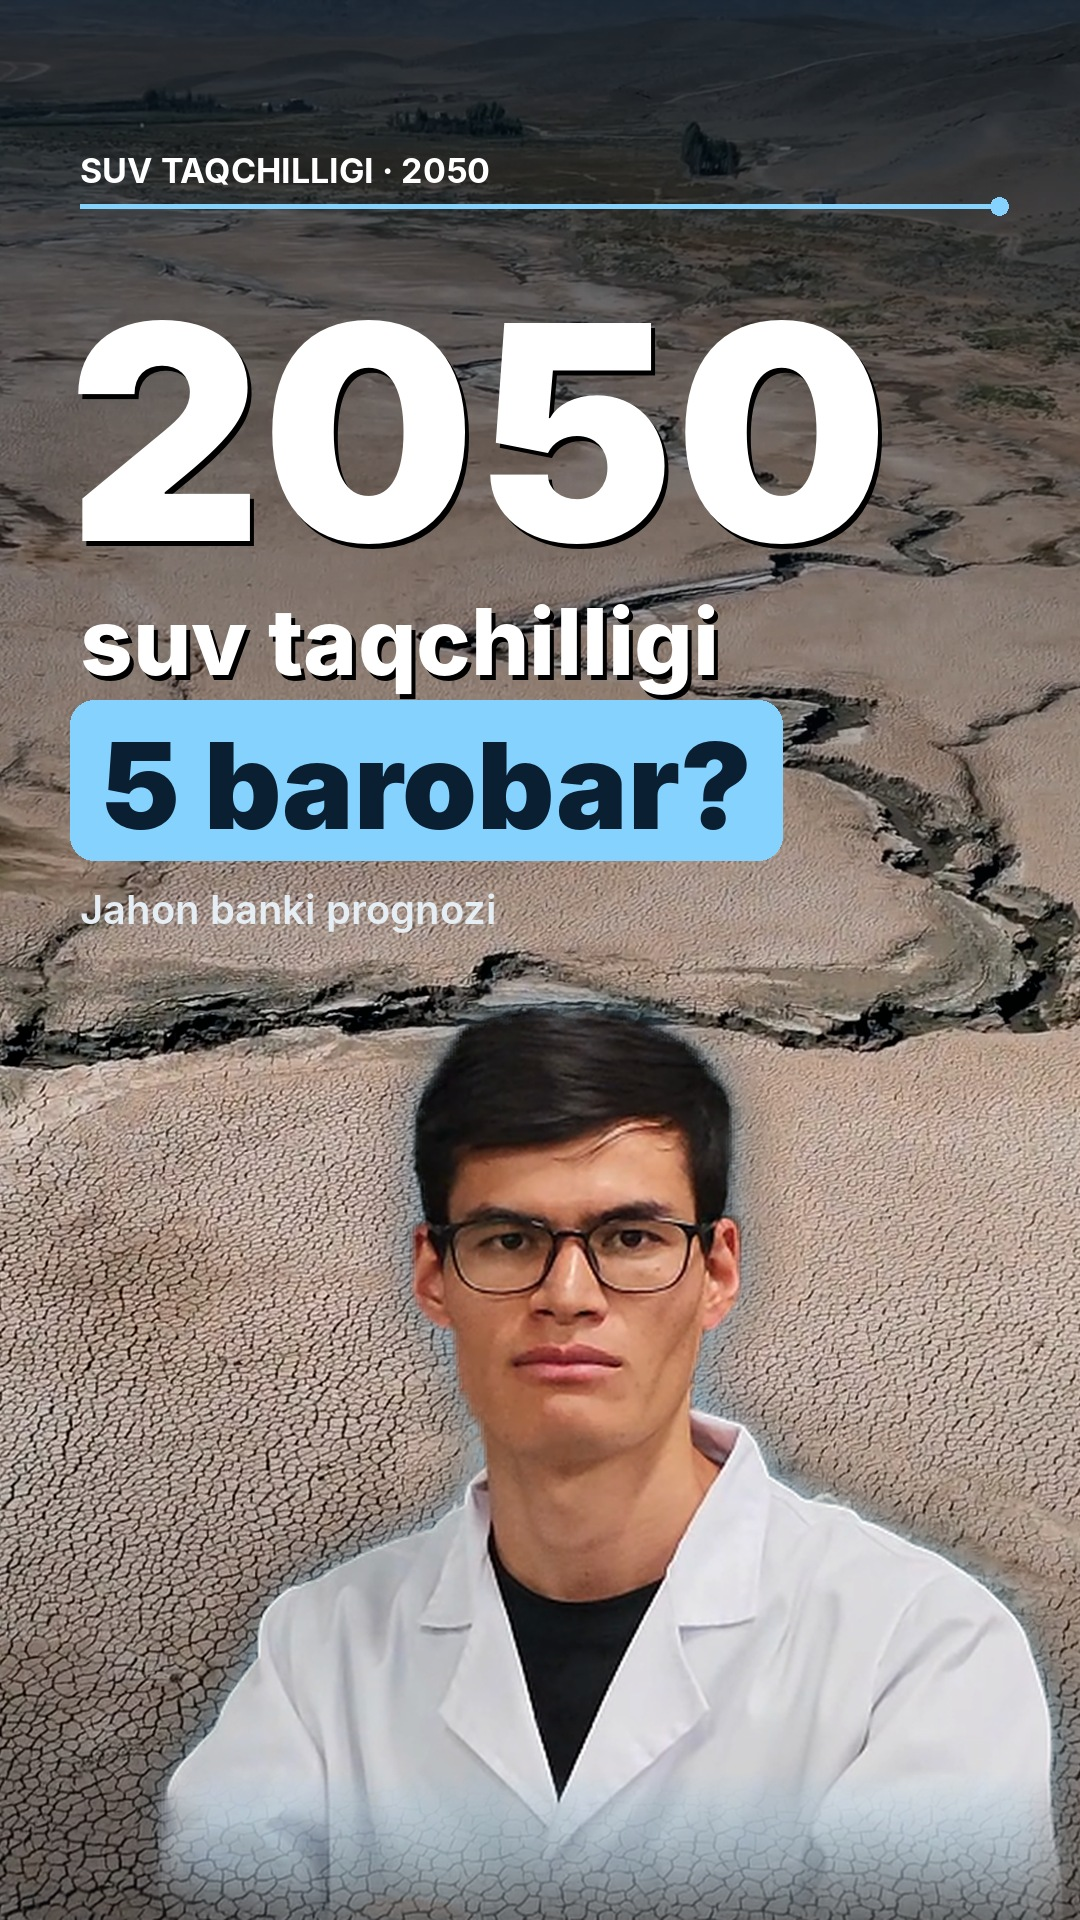
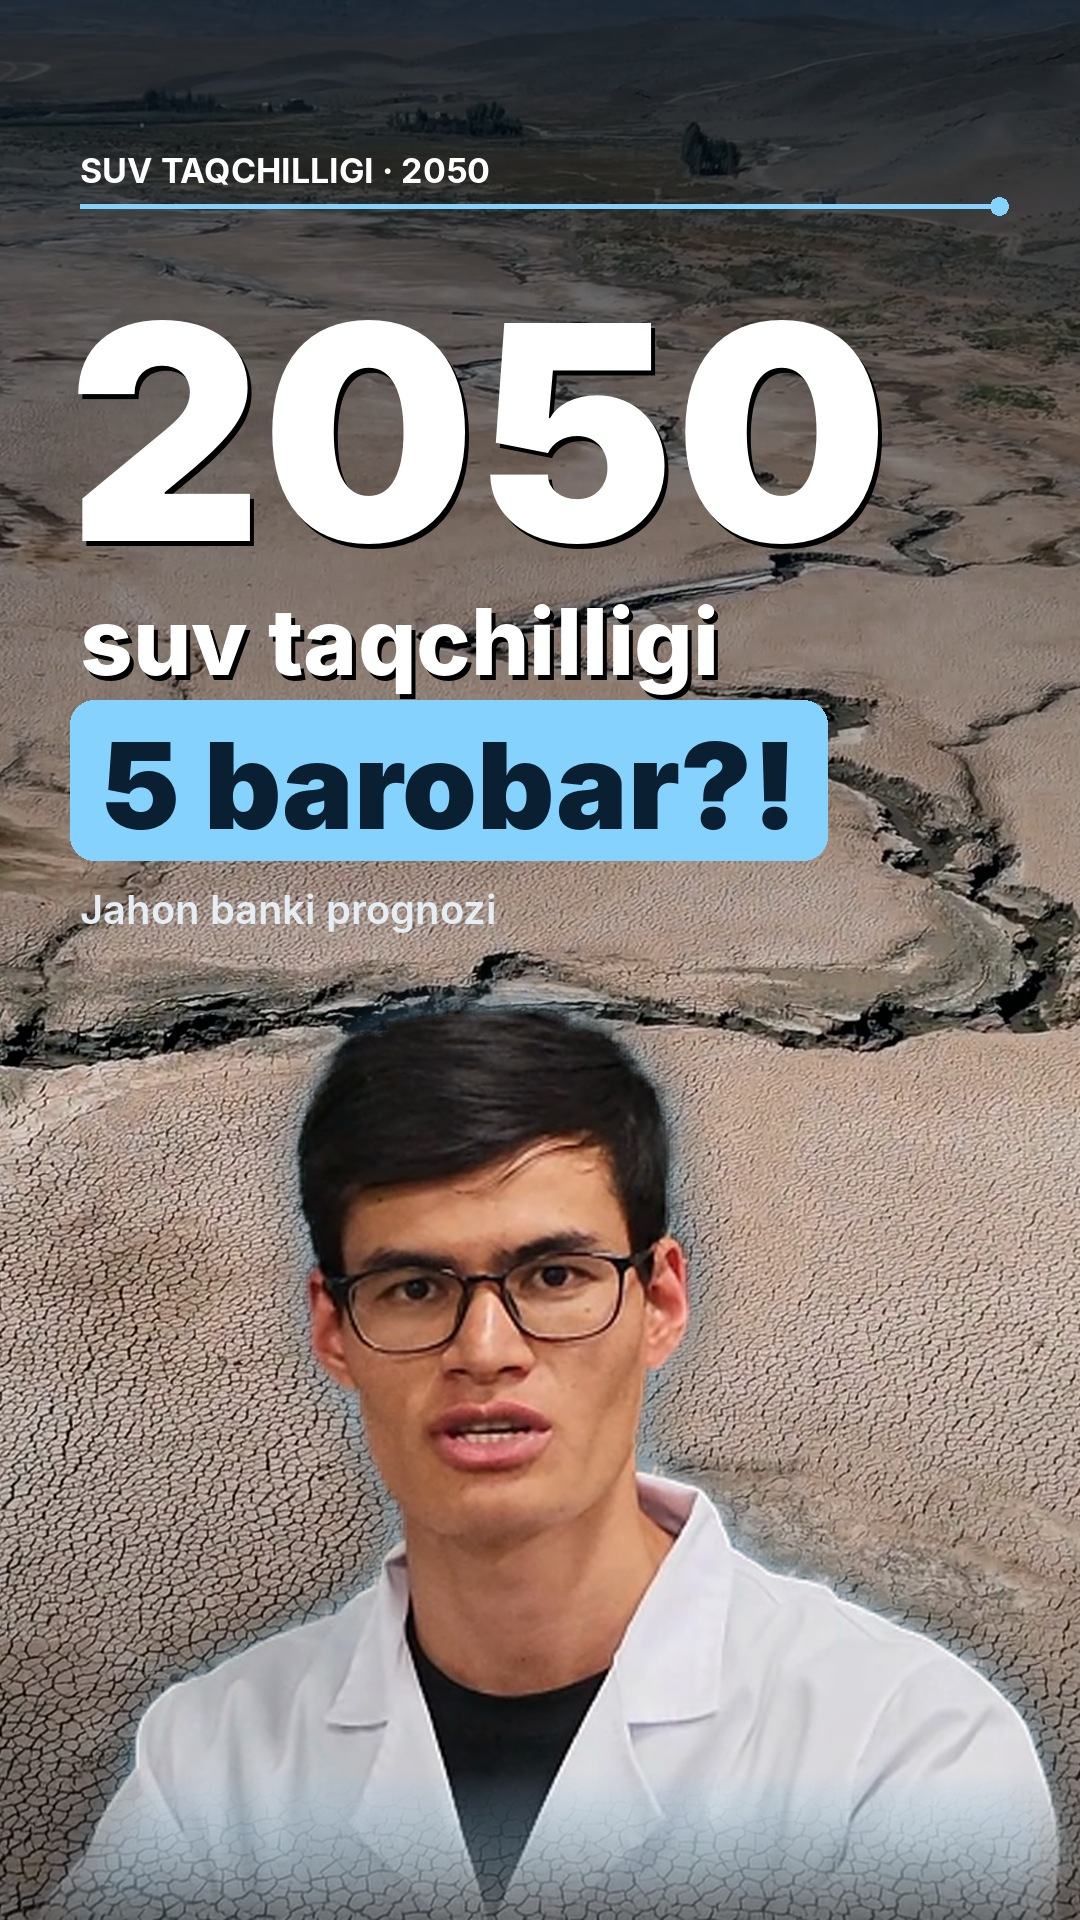
27.10 cover: shocked frame (58.2s), bigger face, '5 barobar?!'
Claude-Session: https://claude.ai/code/session_011HDZ5Uv6NChoVbnSnix7oL

Changed region(s): [[0.0306, 0.5, 0.9778, 1.0], [0.7028, 0.3438, 0.7639, 0.4688], [0.7333, 0.875, 0.825, 0.9375]]

diff --git a/reels/2026-10-27-suv-taqchilligi-2050/src/make_cover.py b/reels/2026-10-27-suv-taqchilligi-2050/src/make_cover.py
@@ -21,12 +21,12 @@ for y in range(H):
 im.alpha_composite(g)
 
 # person bust
-cut = Image.open(D + "cut.png").convert("RGBA").crop((360, 740, 1040, 1380))
-sc = 1.55; cut = cut.resize((int(cut.width * sc), int(cut.height * sc)), Image.LANCZOS)
+cut = Image.open(D + "cut.png").convert("RGBA").crop((400, 790, 1000, 1330))
+sc = 1.8; cut = cut.resize((int(cut.width * sc), int(cut.height * sc)), Image.LANCZOS)
 m = np.array(cut.getchannel("A")).astype(np.float32)
 fade = np.clip((cut.height - np.arange(cut.height)) / 160, 0, 1)[:, None]      # soft bottom edge
 cut.putalpha(Image.fromarray((m * fade).astype(np.uint8)))
-px, py = (W - cut.width) // 2 + 40, H - cut.height + 10
+px, py = (W - cut.width) // 2, H - cut.height + 10
 glow = Image.new("RGBA", (W, H)); gl = Image.new("RGBA", cut.size, SKY + (0,)); gl.putalpha(cut.getchannel("A"))
 glow.alpha_composite(gl, (px, py)); glow = glow.filter(ImageFilter.GaussianBlur(26))
 glow.putalpha(glow.getchannel("A").point(lambda v: int(v * 0.85)))
@@ -44,9 +44,9 @@ d.ellipse([990, 197, 1008, 215], fill=SKY + (255,))
 text(68, 250, "2050", fn("Black", 300), WHITE)
 text(80, 585, "suv taqchilligi", fn("ExtraBold", 92), WHITE)
 # ×5 badge
-f = fn("Black", 120); w = d.textlength("5 barobar?", font=f)
+f = fn("Black", 120); w = d.textlength("5 barobar?!", font=f)
 d.rounded_rectangle([70, 700, 70 + w + 60, 860], 24, fill=SKY + (255,))
-d.text((100, 712), "5 barobar?", font=f, fill=(11, 31, 51))
+d.text((100, 712), "5 barobar?!", font=f, fill=(11, 31, 51))
 d.text((80, 885), "Jahon banki prognozi", font=fn("SemiBold", 40), fill=(230, 238, 245, 240))
 im.convert("RGB").save(D + "cover_2050.jpg", quality=93)
 im.convert("RGB").resize((360, 640)).save(D + "cover_small.jpg")
